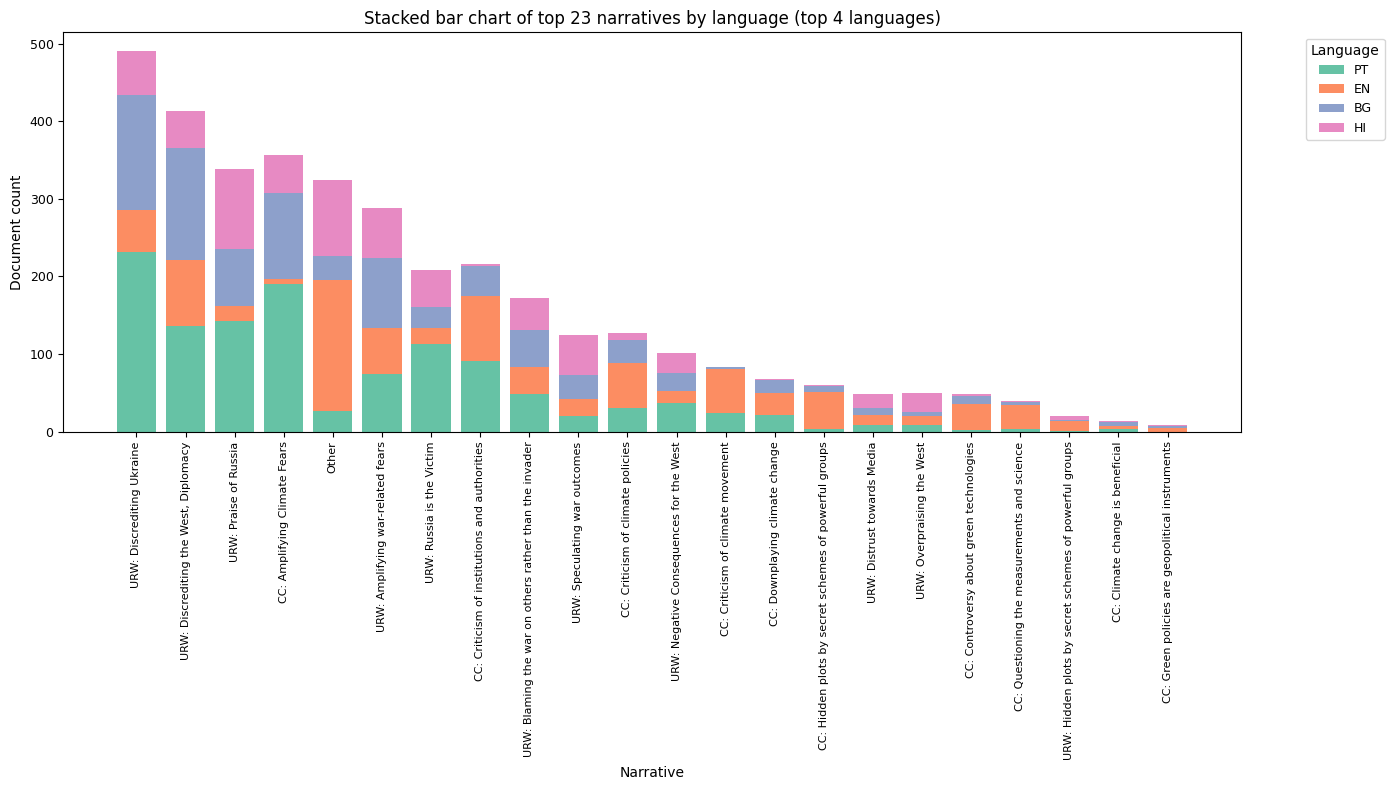
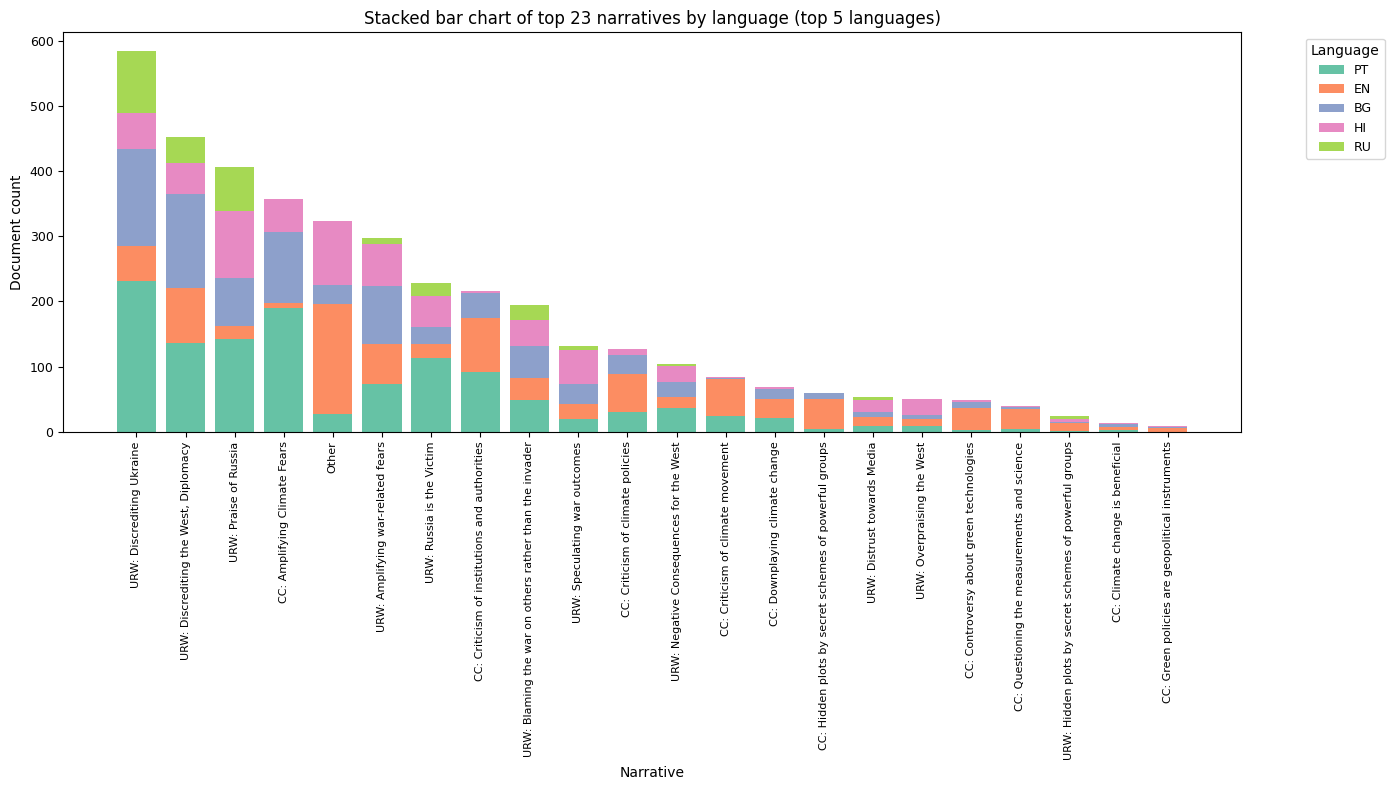
Update appendix section to change 'narratives' to 'subnarratives' and update binary files

Changed region(s): [[0.0617, 0.0608, 0.7403, 0.5468], [0.7403, 0.5165, 0.8329, 0.5468], [0.9254, 0.1823, 0.9871, 0.2127]]

diff --git a/chapters/appendix.tex b/chapters/appendix.tex
@@ -464,7 +464,7 @@ Your entire response MUST be a single JSON object. ALL fields in the
 schema below are REQUIRED. Do not omit any fields.
 
 {
-  "narratives": [
+  "subnarratives": [
     {
       "subnarrative_name": "string (The exact name from the list)",
       "evidence_quote": "string (The direct quote from the text you found 
